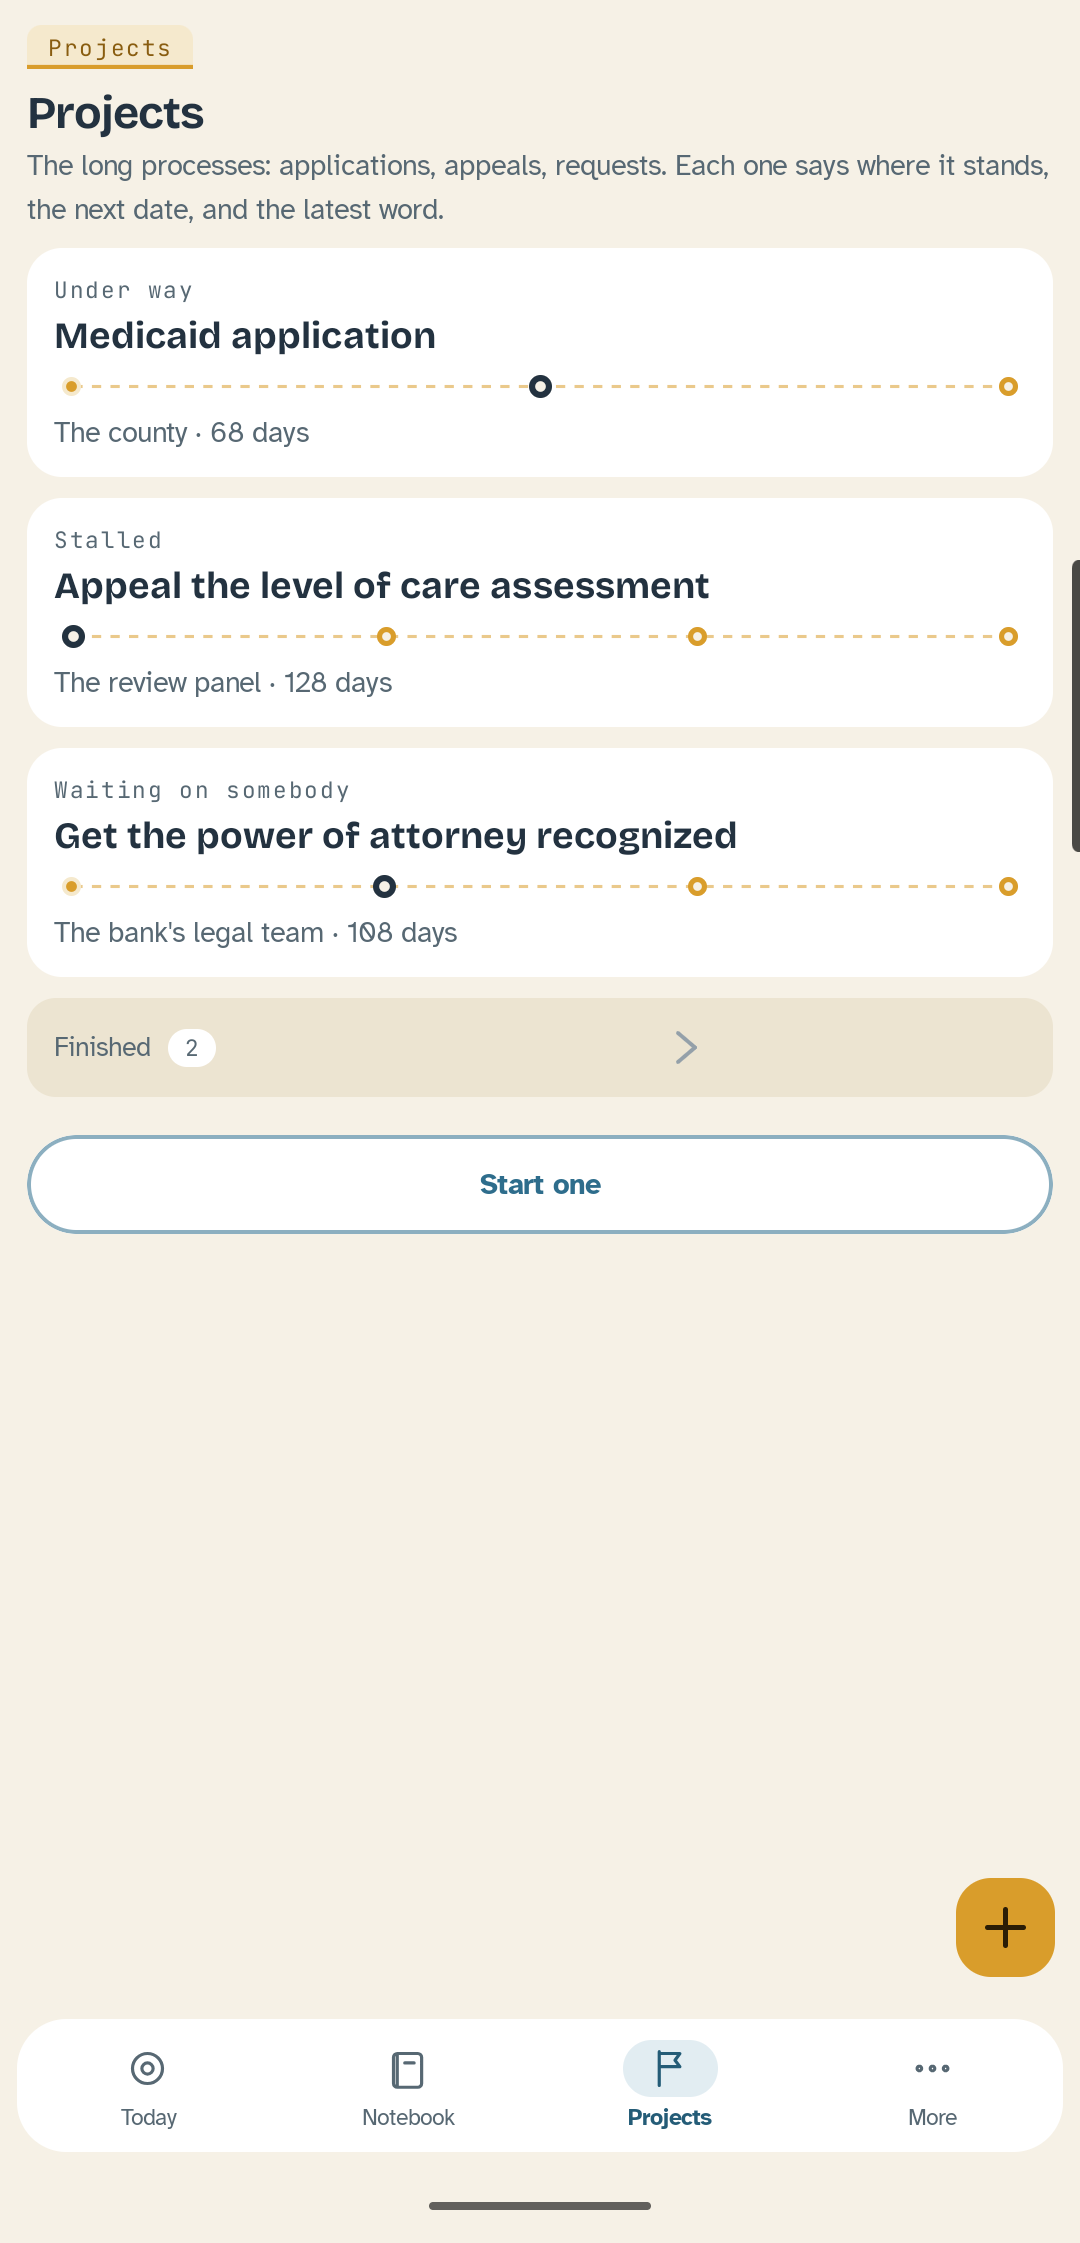
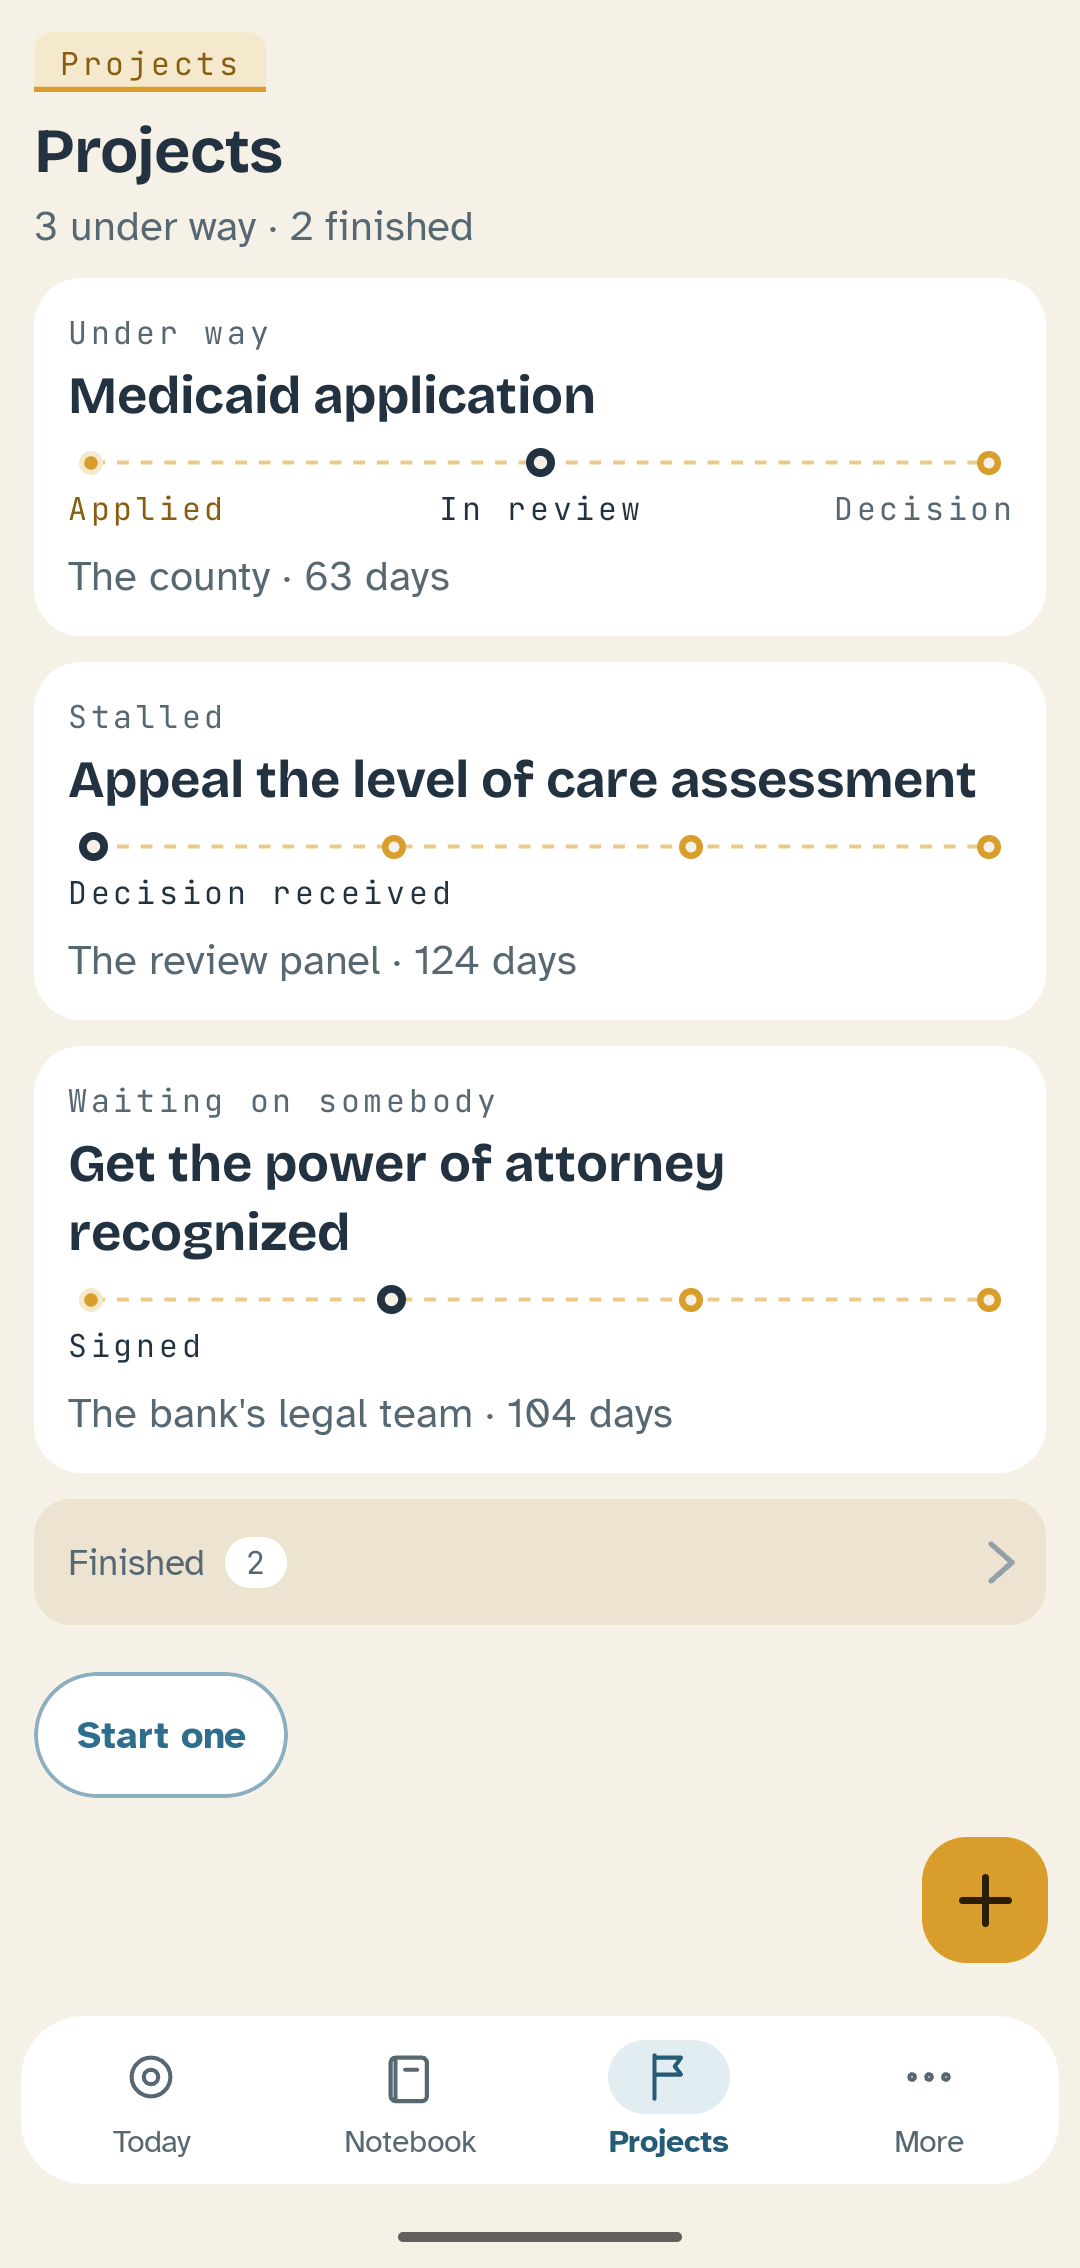
A project's road says its stages, and the Projects subtitle says your projects
#376 item 5, the first pass. Both are restorations of grid screen 02
rather than new design: nothing had recorded a departure, so D142 settles
them.

AN UNNAMED ROAD IS A PROGRESS BAR. The card drew four dots on a dashed
line and nothing else, which is the one shape rule 13 rules out and the
opposite of what the component is for. 20.1 says a project leads with
where it stands, and "In review" is the word somebody repeats on the
phone. The names are on now.

The fallback is the part worth keeping. LabelsOrList already measured
whether the widest name fits its column and listed every name in one line
when it did not, which on a four stage road is two wrapped lines of
tracked mono in one tone: it says every stage and says where the project
stands nowhere in it. At MINI the fallback is now the current stage alone.
Seen on the phone as "Decision received · Preparing · Submitted ·
Answered" wrapping across a card, then as "Decision received".

Nothing is hidden by that. The full road with every name is on the
project's own screen one tap away, and the strip's reader sentence already
names every stage in order. FULL is unchanged: there the whole road is the
subject rather than an answer to "where is this now".

THE SUBTITLE WAS THREE LINES SAYING WHAT A PROJECT IS, to somebody who
already has three. Rule 20. It is "3 under way · 2 finished" now, and the
finished half is absent when there is none so a first project does not
[…]

diff --git a/android/app/src/main/kotlin/com/kamsiob/healthtrail/ui/screens/ProjectsScreen.kt b/android/app/src/main/kotlin/com/kamsiob/healthtrail/ui/screens/ProjectsScreen.kt
@@ -42,6 +42,7 @@ object ProjectTags {
     const val NAME = "projects"
     const val EMPTY = "section_empty_projects"
     const val EMPTY_START = "section_empty_action_projects"
+    const val COUNTS = "projects_counts"
     const val FINISHED_FOLD = "projects_finished_fold"
     fun row(id: String) = "project_$id"
 }
@@ -110,19 +111,34 @@ fun ProjectsScreen(
                     style = HealthTrail.type.displayM,
                     color = colors.ink,
                 )
-                // **The subtitle describes the rows, so it goes when there
-                // are none.** It says what each project answers, which is
-                // nothing a person can act on before the first one exists, and
-                // it opened with the same four words as the empty state's own
-                // lead. Two headings saying "the long processes" one above the
-                // other is the screen repeating itself at the one moment it has
-                // the reader's whole attention.
+                // **The state of the person's own projects, not a definition
+                // of what a project is.** It read "The long processes:
+                // applications, appeals, requests. Each one says where it
+                // stands, the next date, and the latest word", which is three
+                // lines telling somebody who already has three projects what a
+                // project is. Rule 20: the app explaining its own organizing
+                // scheme on the screen.
+                //
+                // **Grid screen 02 draws a count here** and nothing recorded a
+                // departure, so D142 settles it. A count of things is not a
+                // score on the person, per rule 13, and it is the same shape
+                // the notebook's section counts already use: the finished half
+                // is left out entirely when there is none, so a first project
+                // does not arrive beside a zero.
+                //
+                // **Still nothing before the first one.** The empty state
+                // carries its own invitation and a count of none is furniture.
                 if (projects.isNotEmpty()) {
                     Spacer(Modifier.height(Space.xs))
                     Text(
-                        text = strings["projects.subtitle"],
+                        text = strings(
+                            "projects.subtitle.counts",
+                            "live" to projects.count { !it.isFinished },
+                            "finished" to projects.count { it.isFinished },
+                        ),
                         style = HealthTrail.type.bodyM,
                         color = colors.ink2,
+                        modifier = Modifier.testTag(ProjectTags.COUNTS),
                     )
                 }
                 Spacer(Modifier.height(Space.cardGap))
@@ -286,11 +302,23 @@ private fun ProjectRow(
         val stages = card?.stages.orEmpty()
         if (stages.size >= 2) {
             Spacer(Modifier.height(Space.s))
+            // **Named, because an unnamed road is a progress bar.** Four dots
+            // on a dashed line say only how far along something is, which is
+            // the one thing rule 13 rules out and the one thing this component
+            // is not for: a road says *where it stands*, and "In review" is the
+            // word somebody repeats on the phone. Grid screen 02 draws the
+            // stage names on the card and nothing recorded a departure from it,
+            // so D142 settles it.
+            //
+            // **`LabelsOrList` measures rather than guessing**, laying the
+            // longest name out in the label's own style and asking how wide it
+            // actually came out, so a road whose names do not fit under their
+            // waypoints becomes one line instead of four crushed columns.
             RoadStrip(
                 stages = stages.map { RoadStage(name = it.name, reached = it.isReached) },
                 description = roadSentence(project.name, stages, strings),
                 size = RoadSize.MINI,
-                showLabels = false,
+                showLabels = true,
             )
         }
 

diff --git a/android/app/src/main/kotlin/com/kamsiob/healthtrail/ui/components/RoadStrip.kt b/android/app/src/main/kotlin/com/kamsiob/healthtrail/ui/components/RoadStrip.kt
@@ -177,7 +177,12 @@ fun RoadStrip(
         // most. Section 9, and rule 14: the project home draws the same road
         // and had the same defect.
         if (showLabels) {
-            LabelsOrList(stages = stages, current = current, mirrored = mirrored)
+            LabelsOrList(
+                stages = stages,
+                current = current,
+                mirrored = mirrored,
+                size = size,
+            )
         }
     }
 }
@@ -193,7 +198,12 @@ fun RoadStrip(
  * component does not choose.
  */
 @Composable
-private fun LabelsOrList(stages: List<RoadStage>, current: Int, mirrored: Boolean) {
+private fun LabelsOrList(
+    stages: List<RoadStage>,
+    current: Int,
+    mirrored: Boolean,
+    size: RoadSize,
+) {
     val colors = HealthTrail.colors
     val type = HealthTrail.type
     val measurer = rememberTextMeasurer()
@@ -255,6 +265,27 @@ private fun LabelsOrList(stages: List<RoadStage>, current: Int, mirrored: Boolea
                     )
                 }
             }
+        } else if (size == RoadSize.MINI) {
+            // **On a card, the one name that answers the question.** The
+            // fallback below lists every stage in one line, in one tone, which
+            // on a four stage road wraps to two lines of tracked mono and says
+            // where the project stands nowhere in it. A card in a list is
+            // scanned: "where is this now" is the whole of what it is being
+            // asked, and 20.1 says a project leads with where it stands.
+            //
+            // **Nothing is hidden by this.** The full road with every name is
+            // on the project's own screen, one tap away, and the reader's
+            // sentence for this strip already names every stage in order. Rule
+            // 11 is about a person not being able to reach what was cut, and
+            // both halves of that are covered.
+            Text(
+                text = Bidi.isolate(stages.getOrNull(current)?.name ?: stages.first().name),
+                style = type.mono,
+                color = colors.ink,
+                maxLines = 2,
+                overflow = TextOverflow.Ellipsis,
+                modifier = Modifier.fillMaxWidth().padding(top = Space.xs),
+            )
         } else {
             Text(
                 text = stageNamesLine(stages),

diff --git a/android/app/src/androidTest/kotlin/com/kamsiob/healthtrail/ui/ProjectsScreenTest.kt b/android/app/src/androidTest/kotlin/com/kamsiob/healthtrail/ui/ProjectsScreenTest.kt
@@ -2,6 +2,7 @@ package com.kamsiob.healthtrail.ui
 
 import androidx.compose.runtime.CompositionLocalProvider
 import androidx.compose.ui.test.assertIsDisplayed
+import androidx.compose.ui.test.assertTextEquals
 import androidx.compose.ui.test.junit4.createComposeRule
 import androidx.compose.ui.test.onNodeWithTag
 import androidx.compose.ui.test.onNodeWithText
@@ -95,16 +96,23 @@ class ProjectsScreenTest {
      * one moment it has the reader's whole attention.
      */
     @Test
-    fun theSubtitleIsGoneWhileThereAreNoProjectsAndBackWhenThereAre() {
+    fun theCountIsGoneWhileThereAreNoProjectsAndBackWhenThereAre() {
         show(emptyList())
-        compose.onNodeWithText(strings["projects.subtitle"]).assertDoesNotExist()
+        compose.onNodeWithTag(ProjectTags.COUNTS).assertDoesNotExist()
     }
 
     @Test
-    fun theSubtitleAndTheStartButtonAreBothThereOnceAProjectExists() {
+    fun theCountSaysTheStateOfTheProjectsRatherThanWhatAProjectIs() {
+        // **A fact about this person's own list**, per grid screen 02, which
+        // draws a count here. It used to be three lines saying what a project
+        // is, to somebody who already has one. Rule 20, and D142 settles which
+        // wins because nothing recorded a departure.
+        //
+        // **The finished half is absent when there is none**, so a first
+        // project does not arrive beside a zero.
         show(listOf(aProject))
-
-        compose.onNodeWithText(strings["projects.subtitle"]).assertIsDisplayed()
+        compose.onNodeWithTag(ProjectTags.COUNTS)
+            .assertTextEquals(strings("projects.subtitle.counts", "live" to 1, "finished" to 0))
         compose.onNodeWithTag(ProjectTags.START).assertIsDisplayed()
         // **One start action at a time.** The empty state carries its own, and
         // the two would otherwise both be on screen saying the same thing.

diff --git a/DECISIONS.md b/DECISIONS.md
@@ -170,6 +170,7 @@ The BLOCKED section at the end lists anything only the owner can resolve, each w
 | D148 | The third version currency check, which D121 left enabled |
 | D148 | An event writer updates its parent's state in the same transaction |
 | D147 | A form asks one question at a time; correcting a record shows all of it at once |
+| D156 | A project's road says its stage names, and a card shows the one it is at |
 | D155 | A long press is allowed where it names the visible control that does the same thing |
 | D154 | The type ladder is lifted app wide, because the owner said the text is hard to read |
 | D153 | Today has two card sizes, square and full width, and the stored column keeps three |
@@ -3003,6 +3004,28 @@ So the decision is a `// bidi-ok:` comment on the line, and the check reads it. 
 **That fix cost two wrong builds in the corner of the card**, and both are worth writing down because neither was visible in the source. A `Box` keeps its minimum constraints to itself, so the card measured square while the column inside it measured to its own text: passing the minimum down is what gives `SpaceBetween` a square to spread across. **But it passes to every child**, so the corner box then filled the card, and `align` says where a box goes rather than how big it is. The chevron landed on the tab in the opposite corner, and after the obvious repair it landed in the middle. The alignment belongs on `wrapContentSize`.
 
 **Revisit if.** The owner asks for a third size, or a card appears whose answer genuinely cannot be told at either.
+
+---
+
+### D156. A project's road says its stage names, and a card shows the one it is at
+
+**Date:** 2026-08-13, overnight. **Decided under rule 10**, working #376 item 5. **Restores grid screen 02 rather than departing from it**, so D142 rather than a new judgment.
+
+**The decision.** The mini road on a project card draws its stage names, and where they do not fit under their own waypoints it shows **the stage the project is at** rather than a list of all of them.
+
+**Why it mattered more than it sounds.** The card drew four dots on a dashed line and nothing else. **An unnamed road is a progress bar**, which is the one thing rule 13 rules out and the exact opposite of what the component is for: 20.1 says a project leads with where it stands, and "In review" is the word somebody repeats on the phone. The grid draws the names on the card and nothing recorded a departure from it, so this was drift rather than a decision.
+
+**The fallback is the part worth writing down.** `LabelsOrList` already measured whether the widest name fits its column, and listed all the names in one line when it did not. On a four stage road at this width that is two wrapped lines of tracked mono in one tone, **which says every stage and says where the project stands nowhere in it**. A card in a list is scanned. So at `MINI` the fallback is the current stage alone, in `ink`, under the road.
+
+**Nothing is hidden by that**, which is the rule 11 question. The full road with every name is on the project's own screen one tap away, and the reader's sentence for the strip already names every stage in order, so the names are not gone for anybody.
+
+**`FULL` is unchanged.** On the project's own screen the whole road is the subject rather than an answer to "where is this now", and listing every name there is right.
+
+**Also on that screen: the subtitle is a count now.** It read "The long processes: applications, appeals, requests. Each one says where it stands, the next date, and the latest word", which is three lines telling somebody who already has three projects what a project is. Rule 20. Grid screen 02 draws a count, a count of things is not a score on the person per rule 13, and **the finished half is left out entirely when there is none** so a first project does not arrive beside a zero.
+
+**Revisit if.** A stage name is long enough that even the current one wraps past two lines on a card, which would mean the fallback needs a third form rather than the road needing fewer stages.
+
+**Not done, and it is the next thing on this surface.** The grid puts "+ Start" at the top beside the title and the app has "Start one" below the list, so starting a project means scrolling past every project. That placement has recorded reasons behind it, D137 and D118 and the FAB clearance, so it wants a decision rather than a move.
 
 ---
 

diff --git a/DESIGN.md b/DESIGN.md
@@ -925,6 +925,12 @@ What carries families through is a complete record: every call with a name, a da
 
 1. **Projects, before the first one.** The empty state says what this place is for and offers the one action.
 2. **Projects, underway.** Project cards, each carrying its mini road and answering where it stands and the next date at a glance. On hold and closed fold away. **The FAB is the screen's filled action, so Start is outlined.**
+
+   **The subtitle is a count of the person's own projects**, "3 under way · 2 finished", and not a definition of what a project is. D156, and the finished half is absent when there is none.
+
+   **The mini road says its stage names**, which is what makes it a road rather than a progress bar. Where they do not fit under their own waypoints the card shows the stage it is at, alone, because a card in a list is scanned and "where is this now" is the whole of what it is being asked.
+
+   **Not built: the grid puts "+ Start" at the top beside the title** and the app has it below the list, so starting a project means scrolling past every project. The placement has D137, D118 and the FAB clearance behind it, so it wants a decision rather than a move.
 3. **Starting one, 1 of 3.** One question per stage. The kind is chips.
 4. **Starting one, 3 of 3, the setup shown.** The template's five defaults previewed before anything exists. **Nothing is applied until Create.** This screen is the template system made visible.
 5. **The long road**, led by where it stands.
@@ -950,7 +956,7 @@ Approved as inventory additions on 2026-08-04, D107. **Each is composed from exi
 
 | Component | What it is | Costume |
 |---|---|---|
-| **Road strip** | The project's stages as a horizontal stretch of the trail, waypoints and dashed rail. **Full** on the project home, **mini** on its card | **Bare.** It is information and does nothing on touch. Stages are edited from setup. Mirrors fully in RTL |
+| **Road strip** | The project's stages as a horizontal stretch of the trail, waypoints and dashed rail. **Full** on the project home, **mini** on its card. **Both say their stage names**, and where the names do not fit under their waypoints the mini one shows the stage it is at and the full one lists them all. D156: an unnamed road is a progress bar, which is what rule 13 rules out | **Bare.** It is information and does nothing on touch. Stages are edited from setup. Mirrors fully in RTL |
 | **Standing card** | Where it stands: an eyebrow, a plain display sentence, the elapsed fact, and optional outlined actions | A grouped surface. Its actions are outlined pills, verbs or dialable numbers. **The sentence itself is bare** |
 | **Date row** | A tabular countdown beside its fact and its source | **A row ending in a chevron**, opening the date's detail. The number is bare, mono, tabular |
 | **Latest word card** | A gold wash band quoting the most recent entry, with attribution and reference line | A row with a chevron, opening the entry it quotes. Gold because the latest word is a trail entry surfaced |
